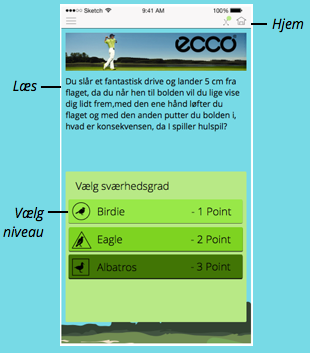
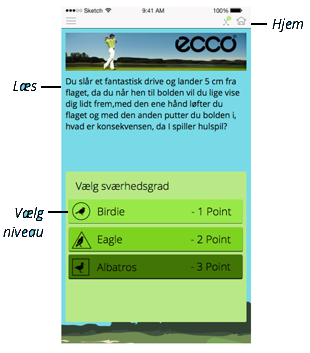
image changes 0.0.15

diff --git a/www/css/style.css b/www/css/style.css
@@ -686,14 +686,15 @@ ion-slide img{
 }
 
 .bar-header {
-   height: 30px;
+	height: 30px;
 }
 
 .bar-header .title {
-   line-height: 30px;
+	line-height: 30px;
+	height: 30px;
 }
 .has-header {
-   top: 30px;
+	top: 30px;
 }
 
 .bar-stable .button.button-clear {
